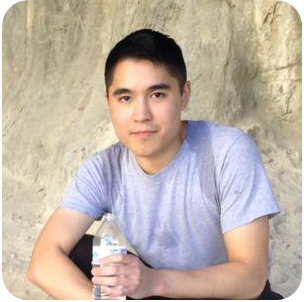
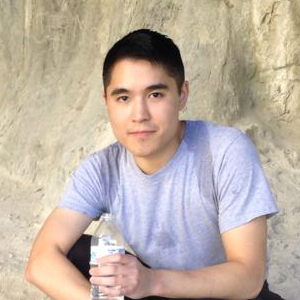
Edit color scheme

diff --git a/main.css b/main.css
@@ -9,13 +9,8 @@ p {
 
 .card {
     margin-top: 0px;
-    margin-left: 40px;
     max-width: 480px;
-}
-
-.pics {
-    position: fixed;
-    top: 40px;
+    padding-right: 32px;
 }
 
 .hi {
@@ -26,10 +21,45 @@ ul {
     list-style-type: circle;
 }
 
+#portrait {
+    border-radius: 32px;
+}
+
+/* Colors */
+
+body {
+    background-color: rgb(32, 32, 48);
+    color: black;
+}
+
+table {
+    background-color: rgb(255, 255, 255);
+    margin: 32px;
+    padding: 32px;
+    border-radius: 32px;
+}
+
+td {
+    vertical-align: top;
+}
+
 a:link {
     color: rgba(0, 0, 255, .75);
 }
 
 a:visited {
-    color: rgba(128, 0, 128, .75);
+    color: rgba(0, 0, 255, .75);
 }
+
+/*Colors for white background*/
+/*
+ 
+a:link {
+    color: rgb(191, 191, 255);
+}
+
+a:visited {
+    color: rgb(191, 191, 255);
+}
+
+*/

diff --git a/index.html b/index.html
@@ -33,17 +33,23 @@
         </ul>
 
         <br>
+        <p>
         <a href="https://www.linkedin.com/in/lejustinh"><img src="./linkedin_logo.png" height="32px"></a>
         <a href="https://github.com/Justin-Le"><img src="./github_logo.png" height="32px"></a>
         <a href="https://www.quora.com/profile/Justin-Le-20"><img src="./quora_logo.png" height="32px"></a>
         <a href="https://plus.google.com/u/0/+JustinLe_JustinLe_JustinLe_JustinLe_JustinLe/about"><img src="./gplus_logo.png" height="32px"></a>
+        </p>
+        
+        <p>
+            <img src="./email.png" height="16px">
+        </p>
 </div>
 </td>
 
 <td>  
-<div class="card pics">
-    <img src="./hiking.png">
-</div>
+    <p>
+    <img id="portrait" src="./hiking.png">
+    </p>
 </td>
 </table>
 </body>
